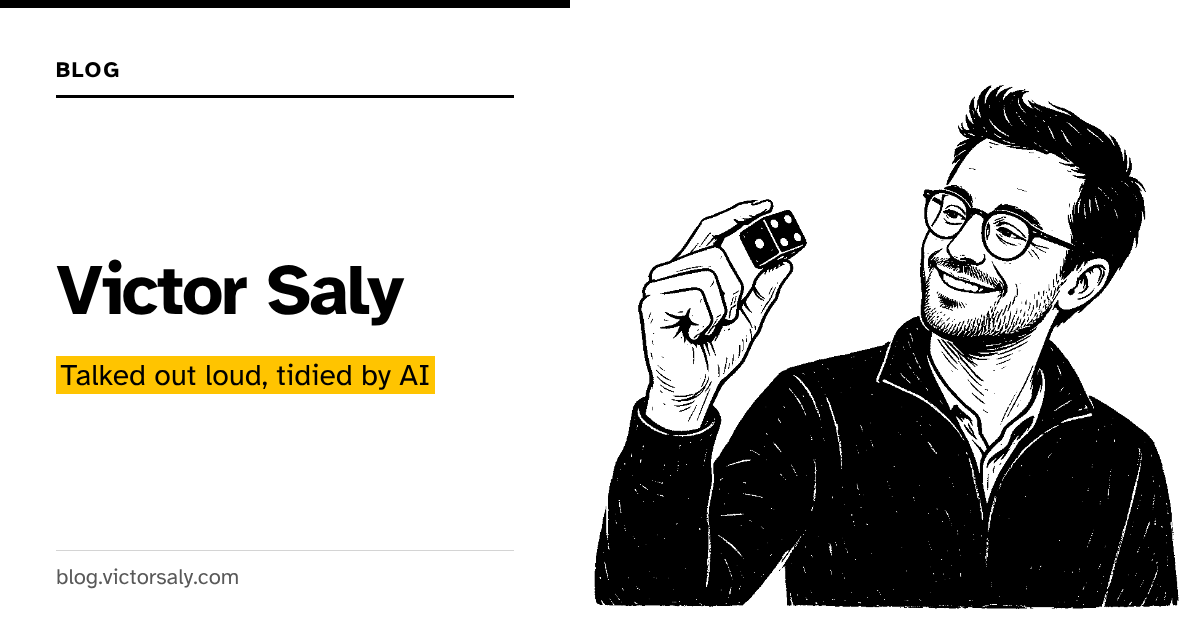
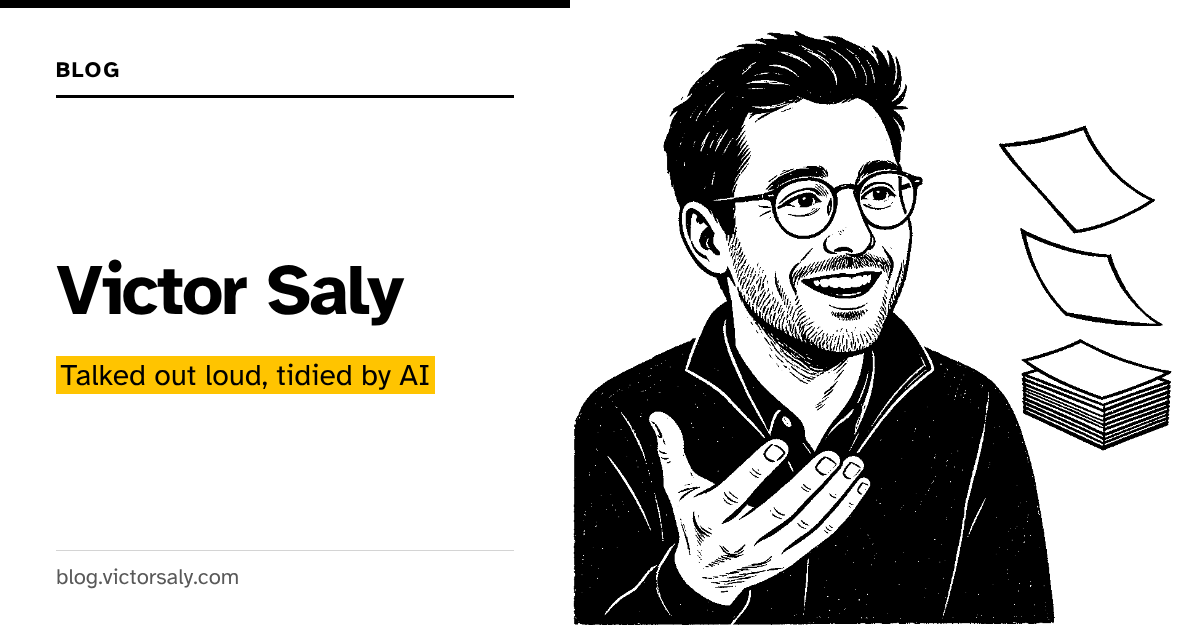
fix: the home page and the site card use the home page's own print
Both were the newest post's cover, so they changed with every post. Now
the masthead portrait and site.png use site/src/assets/home's print, and
the lead post shows its own cover again (no stand-in is needed).

Claude-Session: https://claude.ai/code/session_01EMb4jp4fxkqZGuA8fY3aJP

Changed region(s): [[0.4625, 0.0302, 0.9867, 0.9952]]

diff --git a/site/src/lib/covers.ts b/site/src/lib/covers.ts
@@ -1,7 +1,6 @@
 // Why: the home page, the theme pages and the archive show each post's cover as a small print beside it.
 // The cover is whichever drawing the image agent marked "cover" in image/prompts.md; this finds it once
-// per build so every list uses the same picture and the same alt text. When a print would repeat on one
-// page, the post's first section drawing stands in.
+// per build so every list uses the same picture and the same alt text.
 import type { ImageMetadata } from 'astro';
 import { getCollection } from 'astro:content';
 import { thoughtSlugOf } from './content';
@@ -15,18 +14,6 @@ const drawings = import.meta.glob<ImageMetadata>('../../../thoughts/*/image/*.pn
 export interface Cover {
   image: ImageMetadata;
   alt: string;
-}
-
-/** The drawing of a thought's first section, for when its cover is already on the page. */
-export async function firstSectionPrint(slug: string): Promise<Cover | undefined> {
-  const lists = (await getCollection('pictures')) as unknown as { id: string; data: unknown }[];
-  const list = lists.find((l) => thoughtSlugOf(l.id) === slug);
-  const first = picturesFrom(list?.data).find((p) => p.section !== 'cover');
-  if (!first) return undefined;
-  const image = Object.entries(drawings).find(([path]) =>
-    path.endsWith(`/thoughts/${slug}/${first.file}`),
-  )?.[1];
-  return image ? { image, alt: first.alt } : undefined;
 }
 
 /** Slug → cover, for every thought that has a drawn cover. */

diff --git a/scripts/social-cards.ts b/scripts/social-cards.ts
@@ -3,7 +3,7 @@
 // instead: its title, its message marked once in marigold, and its cover print on the right, in the site's
 // own type and tokens, so the preview is the post's front page in miniature. A page with a print of its own
 // (/how-it-works) gets a card with that print, so it never borrows a post's. The site's own card, the
-// newest cover with the name and the tagline, is what every other page shares. The cards are committed to
+// home page's own print with the name and the tagline, is what every other page shares. The cards are committed to
 // site/public/social, so a build never needs a browser; draw them again when a title, a message or a cover
 // changes, and name thoughts to draw only those.
 // Usage: npm run social:cards [-- <thought-slug or page card name> ...]
@@ -125,16 +125,15 @@ const pageCards: Card[] = [
 ];
 
 const thoughts = await thoughtCards();
-const newest = thoughts[0];
 const cards: Card[] = [
-  ...(newest && asked.length === 0
+  ...(asked.length === 0 || asked.includes('site')
     ? [
         {
           name: 'site',
           label: 'Blog',
           title: settings.site.name,
           message: settings.site.tagline,
-          print: newest.print,
+          print: join(root, 'site/src/assets/home/victor-talking-it-out.png'),
         },
       ]
     : []),
